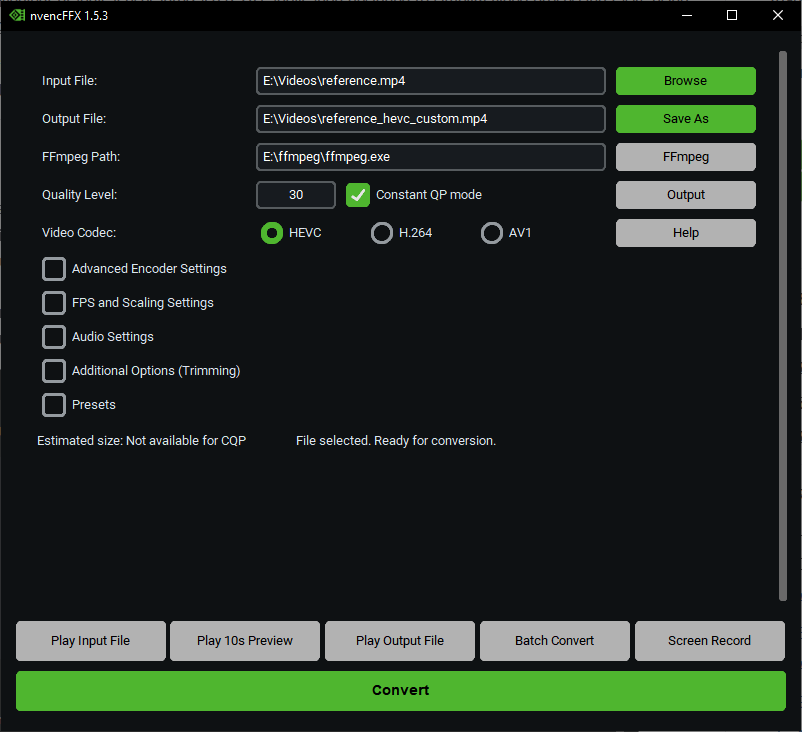
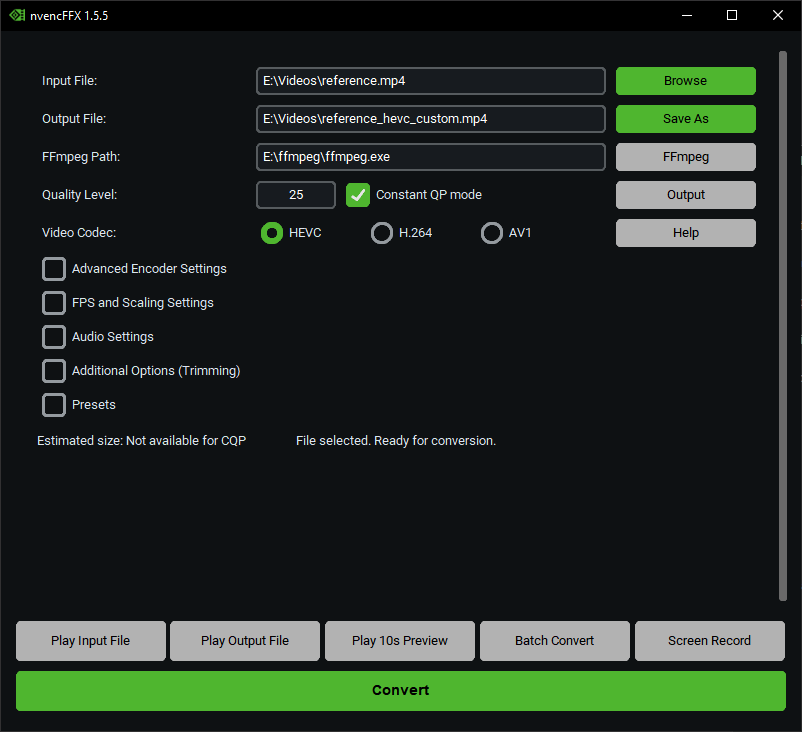
Release 1.5.5

diff --git a/nvencFFX.py b/nvencFFX.py
@@ -527,7 +527,7 @@ class VideoConverterApp:
         self.batch_files = []
         self.video_metadata_cache = {}
         self.master = master
-        master.title("nvencFFX 1.5.4")
+        master.title("nvencFFX 1.5.5")
         master.geometry("800x700")
         master.minsize(800, 700)
         master.maxsize(800, 900)
@@ -640,6 +640,7 @@ class VideoConverterApp:
         # FPS and Scaling Settings
         self.fps_option.trace_add("write", lambda *args: self._on_setting_changed())
         self.custom_fps.trace_add("write", lambda *args: self._on_setting_changed())
+        self.fps_mode.trace_add("write", lambda *args: self._on_setting_changed())
         self.video_format_option.trace_add(
             "write", lambda *args: self._on_setting_changed()
         )
@@ -688,6 +689,7 @@ class VideoConverterApp:
         self.enable_fps_scale_options = ctk.BooleanVar(value=False)
         self.fps_option = ctk.StringVar(value="source")
         self.custom_fps = ctk.StringVar(value="30")
+        self.fps_mode = ctk.StringVar(value="auto")
         self.video_format_option = ctk.StringVar(value="source")
         self.custom_video_width = ctk.StringVar(value="1920")
         self.interpolation_algo = ctk.StringVar(value="bicubic")
@@ -735,6 +737,8 @@ class VideoConverterApp:
         # Screen recording variables
         self.is_recording = False
         self.recording_process = None
+        # Preview 10s
+        self.preview_process = None
 
     def _create_widgets(self):
         # Build the entire GUI interface
@@ -1279,9 +1283,32 @@ class VideoConverterApp:
         self.custom_fps_entry.grid(row=2, column=0, sticky="w", padx=20)
         self.custom_fps_entry.configure(state="disabled")
 
+        # FPS Mode
+        ctk.CTkLabel(self.fps_scale_options_frame, text="FPS Mode:").grid(
+            row=3, column=0, sticky="w", padx=10, pady=5
+        )
+
+        fps_mode_options = [
+            ("Auto", "auto"),
+            ("Constant", "cfr"),
+            ("Variable", "vfr"),
+            ("Passthrough", "passthrough"),
+        ]
+
+        for i, (text, value) in enumerate(fps_mode_options):
+            rb = ctk.CTkRadioButton(
+                self.fps_scale_options_frame,
+                text=text,
+                variable=self.fps_mode,
+                value=value,
+                fg_color=ACCENT_GREEN,
+                hover_color=HOVER_GREEN,
+            )
+            rb.grid(row=3, column=i + 1, sticky="w", padx=2)
+
         # Video Format
         ctk.CTkLabel(self.fps_scale_options_frame, text="Video Format:").grid(
-            row=3, column=0, sticky="w", padx=10, pady=2
+            row=4, column=0, sticky="w", padx=10, pady=2
         )
         video_format_options = [
             ("Source", "source"),
@@ -1301,7 +1328,7 @@ class VideoConverterApp:
                 fg_color=ACCENT_GREEN,
                 hover_color=HOVER_GREEN,
             )
-            rb.grid(row=3, column=i + 1, sticky="w", padx=2)
+            rb.grid(row=4, column=i + 1, sticky="w", padx=2)
 
         # Custom Video Format
         rb_custom_video = ctk.CTkRadioButton(
@@ -1313,7 +1340,7 @@ class VideoConverterApp:
             fg_color=ACCENT_GREEN,
             hover_color=HOVER_GREEN,
         )
-        rb_custom_video.grid(row=4, column=1, sticky="w", padx=2, pady=10)
+        rb_custom_video.grid(row=5, column=1, sticky="w", padx=2, pady=10)
 
         self.custom_video_width_entry = ctk.CTkEntry(
             self.fps_scale_options_frame,
@@ -1323,12 +1350,12 @@ class VideoConverterApp:
             fg_color=ACCENT_GREY,
             text_color=PLACEHOLDER_COLOR,
         )
-        self.custom_video_width_entry.grid(row=4, column=0, sticky="w", padx=20)
+        self.custom_video_width_entry.grid(row=5, column=0, sticky="w", padx=20)
         self.custom_video_width_entry.configure(state="disabled")
 
         # Interpolation
         ctk.CTkLabel(self.fps_scale_options_frame, text="Interpolation Algo:").grid(
-            row=5, column=0, sticky="w", padx=10, pady=10
+            row=6, column=0, sticky="w", padx=10, pady=10
         )
 
         self.interpolation_description = ctk.StringVar(
@@ -1348,7 +1375,7 @@ class VideoConverterApp:
             dropdown_fg_color=SECONDARY_BG,
             dropdown_hover_color=ACCENT_GREEN,
         )
-        interp_option_menu.grid(row=5, column=1, sticky="ew", padx=5, pady=2)
+        interp_option_menu.grid(row=6, column=1, sticky="ew", padx=5, pady=2)
 
         ctk.CTkLabel(
             self.fps_scale_options_frame,
@@ -1357,7 +1384,7 @@ class VideoConverterApp:
             wraplength=100,
             anchor="w",
             justify="left",
-        ).grid(row=5, column=2, sticky="w", padx=5)
+        ).grid(row=6, column=2, sticky="w", padx=5)
 
         # Audio Settings Toggle
         audio_frame_toggle = ctk.CTkCheckBox(
@@ -1699,11 +1726,13 @@ class VideoConverterApp:
             row=6, column=0, columnspan=3, sticky="w", padx=10, pady=(0, 10)
         )
 
-        # FPS passtrough button
+        # Deshake video
         ctk.CTkButton(
             quick_buttons_frame_2,
-            text="FPS Pass",
-            command=lambda: self._add_additional_option("-fps_mode passthrough"),
+            text="Deshake",
+            command=lambda: self._add_video_filter(
+                "deshake=rx=32:ry=32:edge=3:blocksize=32:contrast=200:search=0"
+            ),
             fg_color=ACCENT_GREY,
             hover_color=HOVER_GREY,
             text_color=TEXT_COLOR_B,
@@ -1906,17 +1935,6 @@ class VideoConverterApp:
         self.play_input_button.pack(side="left", expand=True, fill="x", padx=(0, 2))
         self.play_input_button.configure(command=self._play_input_file)
 
-        self.play10s_button = ctk.CTkButton(
-            self.play_buttons_frame,
-            text="Play 10s Preview",
-            fg_color=ACCENT_GREY,
-            hover_color=HOVER_GREY,
-            text_color=TEXT_COLOR_B,
-            height=40,
-        )
-        self.play10s_button.pack(side="left", expand=True, fill="x", padx=(2, 2))
-        self.play10s_button.configure(command=self._create_10s_preview)
-
         self.play_output_button = ctk.CTkButton(
             self.play_buttons_frame,
             text="Play Output File",
@@ -1927,6 +1945,17 @@ class VideoConverterApp:
         )
         self.play_output_button.pack(side="left", expand=True, fill="x", padx=(2, 2))
         self.play_output_button.configure(command=self._play_output_file)
+
+        self.play10s_button = ctk.CTkButton(
+            self.play_buttons_frame,
+            text="Play 10s Preview",
+            fg_color=ACCENT_GREY,
+            hover_color=HOVER_GREY,
+            text_color=TEXT_COLOR_B,
+            height=40,
+        )
+        self.play10s_button.pack(side="left", expand=True, fill="x", padx=(2, 2))
+        self.play10s_button.configure(command=self._create_10s_preview)
 
         self.batch_convert_button = ctk.CTkButton(
             self.play_buttons_frame,
@@ -2021,6 +2050,27 @@ class VideoConverterApp:
             and self.batch_converter_window.is_converting
         ):
             self.batch_converter_window.cancel_batch_conversion()
+
+    def _cancel_preview(self):
+        """Cancel preview creation"""
+        if self.is_creating_preview and self.preview_process:
+            try:
+                self.preview_process.terminate()
+                self.preview_process.wait(timeout=2)
+            except (subprocess.TimeoutExpired, Exception):
+                try:
+                    self.preview_process.kill()
+                except Exception:
+                    pass
+
+            self.is_creating_preview = False
+            self.preview_process = None
+            self.status_text.set("Preview creation cancelled")
+            self.ffmpeg_output.set("")
+            self.progress_frame.grid_remove()
+            self.play10s_button.configure(
+                text="Play 10s Preview", fg_color=ACCENT_GREY, hover_color=HOVER_GREY
+            )
 
     def _open_batch_converter(self):
         if (
@@ -2248,11 +2298,18 @@ class VideoConverterApp:
 
     def _create_10s_preview(self):
         """Create a 10-second preview with current settings"""
+        if self.is_creating_preview:
+            # If preview is being created, cancel it
+            self._cancel_preview()
+            return
+
+        self.preview_process = None
+
         if self.trim_streamcopy.get():
             messagebox.showerror("Error", "Preview is not available in Streamcopy mode")
             return
 
-        if self.is_converting or self.is_creating_preview:
+        if self.is_converting:
             messagebox.showerror("Error", "Please wait until current process completes")
             return
 
@@ -2374,10 +2431,16 @@ class VideoConverterApp:
             self.progress_label.configure(text="0%")
             self.progress_frame.grid()
 
+            # Update button to show cancel state
+            self.play10s_button.configure(
+                text="Cancel Preview", fg_color=ACCENT_RED, hover_color=HOVER_RED
+            )
+
             # Start encoding in separate thread
             preview_thread = Thread(
                 target=self._run_preview_encoding, args=(encode_cmd, temp_encoded)
             )
+            preview_thread.daemon = True
             preview_thread.start()
 
         except Exception as e:
@@ -2647,6 +2710,10 @@ class VideoConverterApp:
                 if custom_fps:
                     self.custom_fps.set(custom_fps)
 
+                fps_mode = settings.get("fps_mode", "")
+                if fps_mode:
+                    self.fps_mode.set(fps_mode)
+
                 video_format_option = settings.get("video_format_option", "")
                 if video_format_option:
                     self.video_format_option.set(video_format_option)
@@ -2777,6 +2844,7 @@ class VideoConverterApp:
                 # FPS and scaling settings
                 "fps_option": self.fps_option.get(),
                 "custom_fps": self.custom_fps.get(),
+                "fps_mode": self.fps_mode.get(),
                 "video_format_option": self.video_format_option.get(),
                 "custom_video_width": self.custom_video_width.get(),
                 # Encoder Flags
@@ -2785,7 +2853,7 @@ class VideoConverterApp:
                 "encoder_strict_gop": self.strict_gop.get(),
                 "encoder_no_scenecut": self.no_scenecut.get(),
                 "encoder_weighted_pred": self.weighted_pred.get(),
-                "version": "1.5.4",
+                "version": "1.5.5",
             }
 
             with open(settings_file, "w", encoding="utf-8") as file:
@@ -3048,6 +3116,9 @@ class VideoConverterApp:
 
         if vf_filters:
             command.extend(["-vf", ",".join(vf_filters)])
+
+        if self.fps_mode.get() != "auto":
+            command.extend(["-fps_mode", self.fps_mode.get()])
 
         # Add encoder settings based on mode
         codec_map = {"hevc": "hevc_nvenc", "av1": "av1_nvenc"}
@@ -4231,22 +4302,37 @@ class VideoConverterApp:
                 encoding="utf-8",
                 errors="replace",
             )
+            self.preview_process = process
 
             # Process output in real-time
             for line in process.stdout:
+                if not self.is_creating_preview:  # Check if cancelled
+                    process.terminate()
+                    break
+
                 if line:
-                    self.master.after(0, lambda: self.ffmpeg_output.set(line))
-                    self.master.after(0, lambda: self._update_preview_progress(line))
+                    self.master.after(
+                        0, lambda line_text=line: self.ffmpeg_output.set(line_text)
+                    )
+                    self.master.after(
+                        0,
+                        lambda line_text=line: self._update_preview_progress(line_text),
+                    )
 
             process.wait()
 
-            if process.returncode == 0:
+            if process.returncode == 0 and self.is_creating_preview:
                 self.master.after(
                     0, lambda: self.status_text.set("Preview created successfully!")
                 )
                 self.master.after(0, lambda: self.ffmpeg_output.set(""))
                 # Play the result
-                os.startfile(output_path)
+                if os.path.exists(output_path):
+                    os.startfile(output_path)
+            elif not self.is_creating_preview:
+                self.master.after(
+                    0, lambda: self.status_text.set("Preview creation cancelled")
+                )
             else:
                 self.master.after(
                     0, lambda: self.status_text.set("Preview creation failed!")
@@ -4258,6 +4344,16 @@ class VideoConverterApp:
         finally:
             self.master.after(0, lambda: self.progress_frame.grid_remove())
             self.is_creating_preview = False
+            self.preview_process = None
+            # Reset button to normal state
+            self.master.after(
+                0,
+                lambda: self.play10s_button.configure(
+                    text="Play 10s Preview",
+                    fg_color=ACCENT_GREY,
+                    hover_color=HOVER_GREY,
+                ),
+            )
 
     def _update_preview_progress(self, line):
         """Update progress for preview encoding"""

diff --git a/README.md b/README.md
@@ -84,8 +84,8 @@ You can compile the Python script into a standalone Windows executable (`.exe`) 
         --include-data-file=nff-about.txt=./nff-about.txt ^
         --include-data-file=nff-license.txt=./nff-license.txt ^
         --product-name="nvencFFX" ^
-        --product-version="1.5.4" ^
-        --file-version="1.5.4" ^
+        --product-version="1.5.5" ^
+        --file-version="1.5.5" ^
         --file-description="nvencFFX" ^
         --company-name="Deepseek Enjoyer" ^
         --copyright="Copyright (C) 2025 hadouken" ^

diff --git a/CHANGELOG.md b/CHANGELOG.md
@@ -1,5 +1,10 @@
 # nvencFFX - Changelog
 
+## [1.5.5] - 2025-10-25
+- Added "FPS Mode";
+- Added "Cancel" for "Play 10s Preview" button;
+- Added "Deshake" filter button.
+
 ## [1.5.4] - 2025-10-18
 - Screen recording now respects the "Preset" parameter value;
 - The clipboard is now preserved even after closing the program (for example, a copied ffmpeg command).
